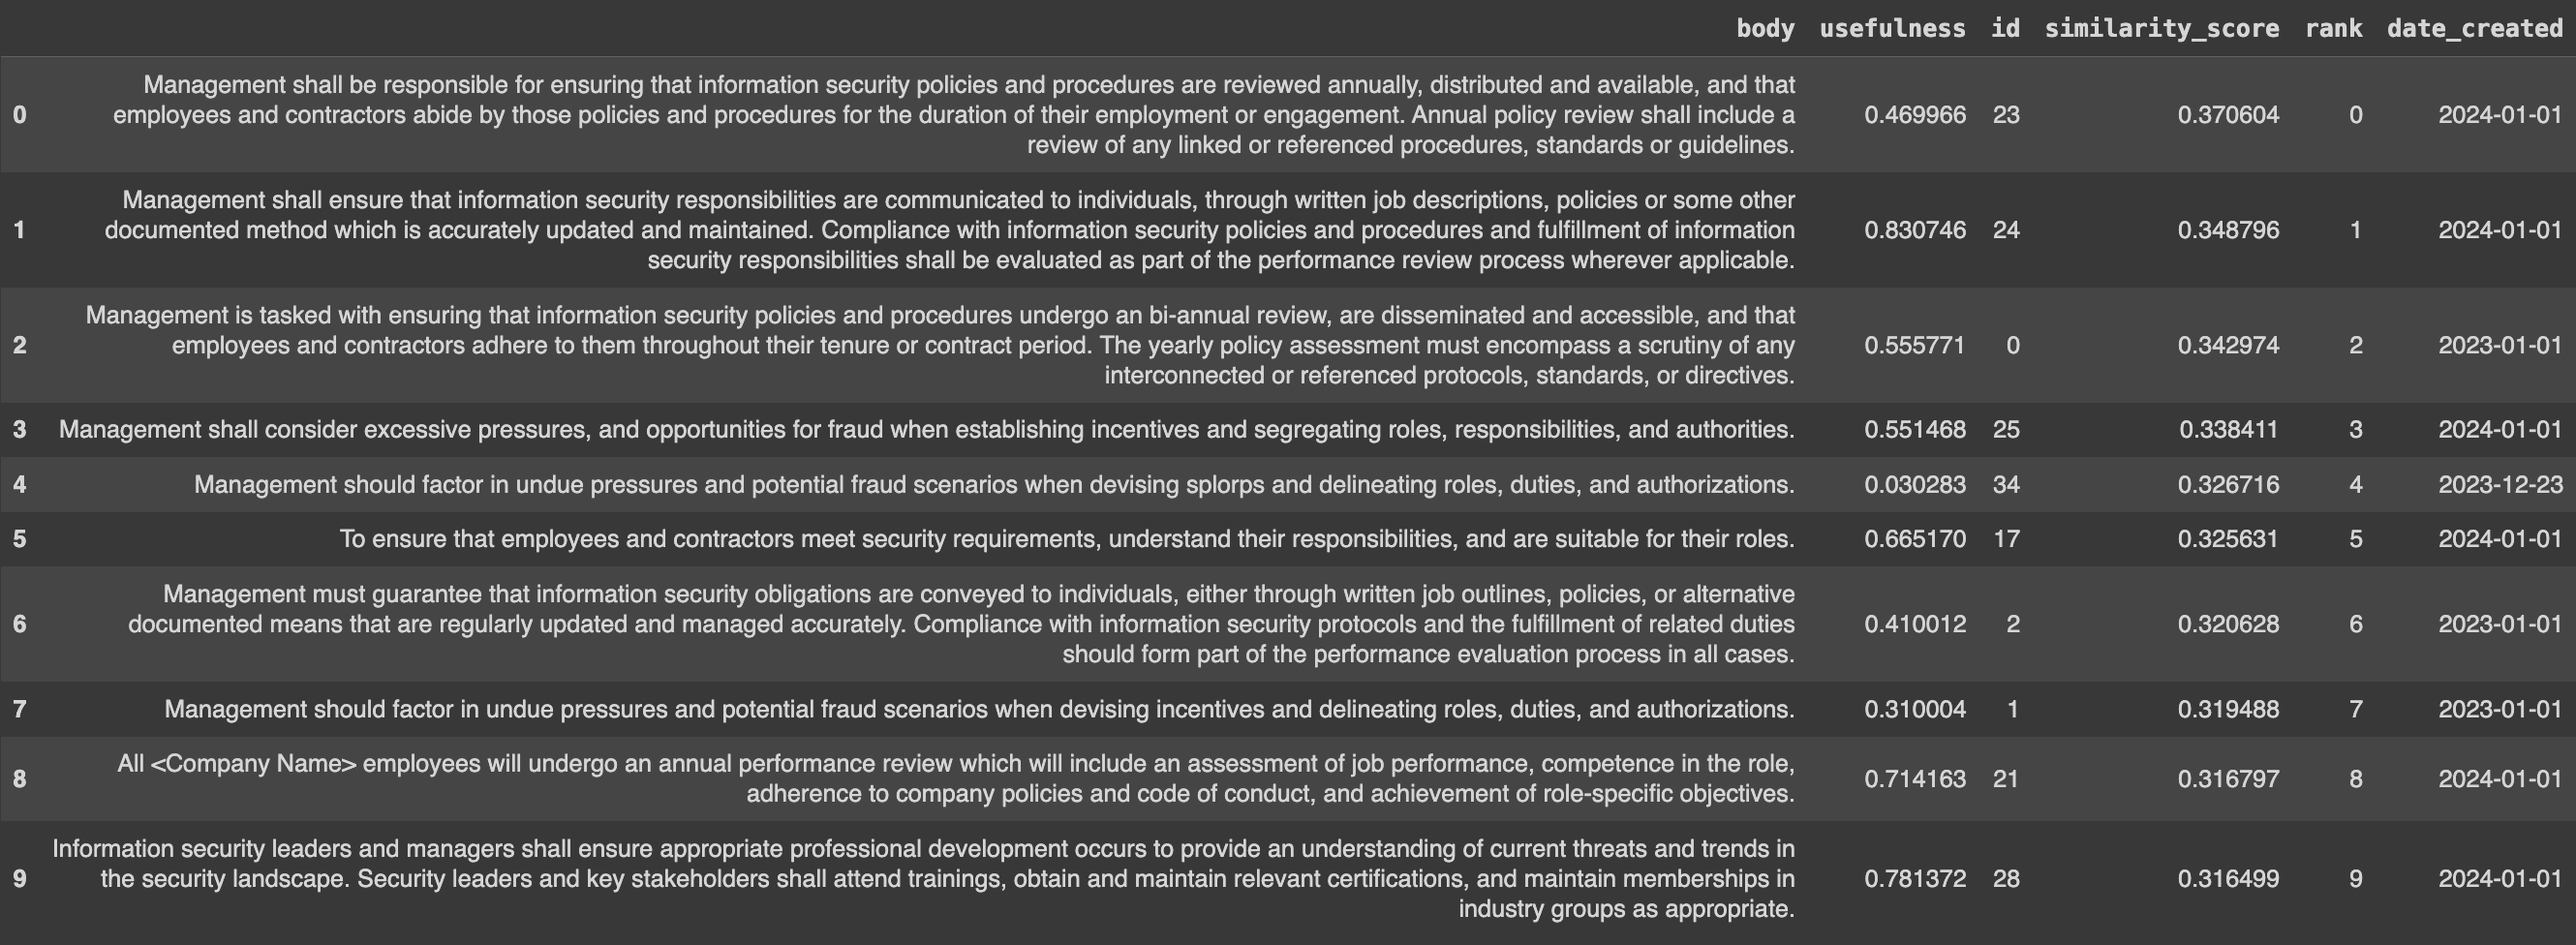
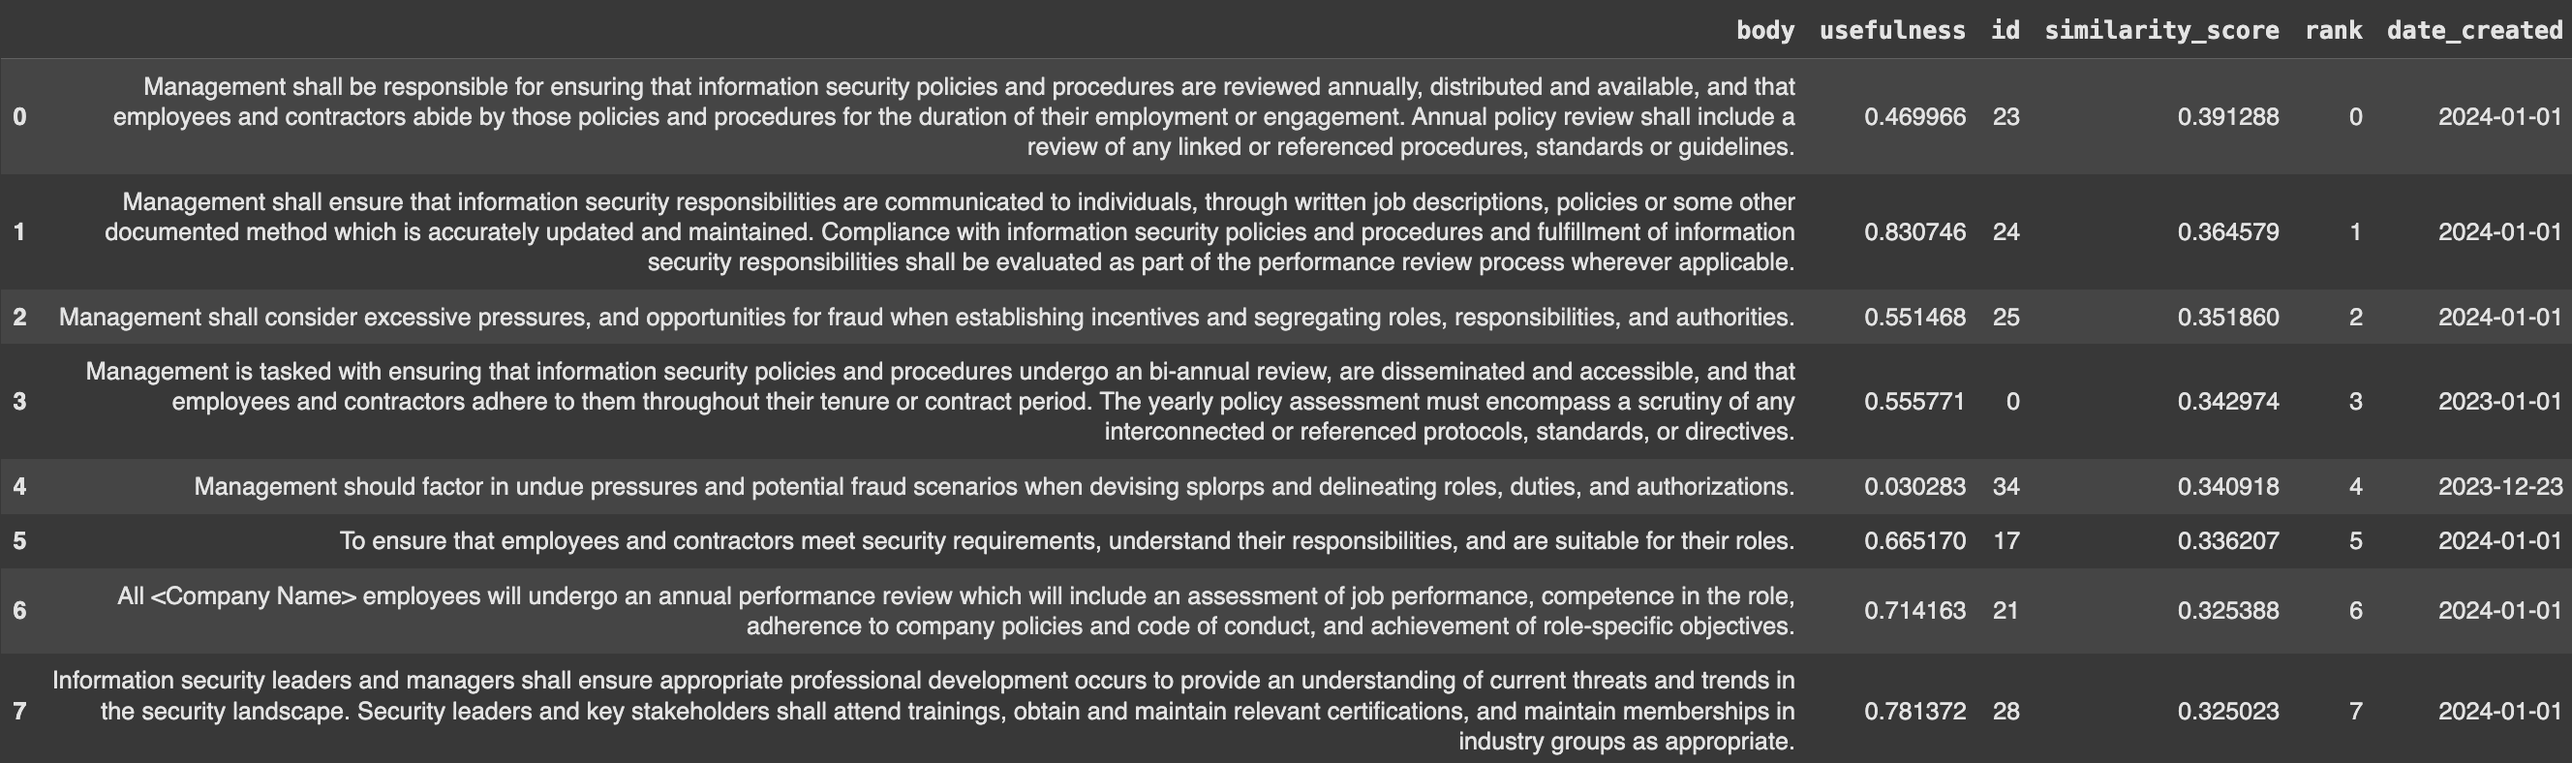
update, passing back by @morkapronczay for review

diff --git a/docs/articles/rag_hr_chatbot.md b/docs/articles/rag_hr_chatbot.md
@@ -62,8 +62,10 @@ Let’s get started setting up our solution!
 To start building your RAG-powered HR policy chatbot with Superlinked, your first step is to install the library and import the classes.
 
 ```python
-%pip install superlinked==12.16.0
+%pip install superlinked==13.1.3
 
+from datetime import datetime, timedelta
+import os
 
 from datetime import datetime, timedelta
 import os
@@ -72,47 +74,21 @@ import altair as alt
 import pandas as pd
 from torch import float16
 from transformers import AutoTokenizer, pipeline
+from superlinked import framework as sl
 
-from superlinked.framework.common.dag.context import CONTEXT_COMMON, CONTEXT_COMMON_NOW
-from superlinked.framework.common.dag.period_time import PeriodTime
-from superlinked.framework.common.nlq.open_ai import OpenAIClientConfig
-from superlinked.framework.common.parser.dataframe_parser import DataFrameParser
-from superlinked.framework.common.schema.schema import Schema
-from superlinked.framework.common.schema.schema_object import Float, String, Timestamp
-from superlinked.framework.common.schema.id_schema_object import IdField
-from superlinked.framework.common.space.config.embedding.number_embedding_config import (
-    Mode,
-)
-from superlinked.framework.common.util.interactive_util import get_altair_renderer
-from superlinked.framework.dsl.executor.in_memory.in_memory_executor import (
-    InMemoryExecutor,
-)
-from superlinked.framework.dsl.index.index import Index
-from superlinked.framework.dsl.query.param import Param
-from superlinked.framework.dsl.query.query import Query
-from superlinked.framework.dsl.query.result import Result
-from superlinked.framework.dsl.source.in_memory_source import InMemorySource
-from superlinked.framework.dsl.space.text_similarity_space import (
-    TextSimilaritySpace,
-    chunk,
-)
-from superlinked.framework.dsl.space.number_space import NumberSpace
-from superlinked.framework.dsl.space.recency_space import RecencySpace
-
-
-alt.renderers.enable(get_altair_renderer())
+alt.renderers.enable(sl.get_altair_renderer())
 alt.data_transformers.disable_max_rows()
 pd.set_option("display.max_colwidth", 1000)
 START_OF_2024_TS = int(datetime(2024, 1, 2).timestamp())
-EXECUTOR_DATA = {CONTEXT_COMMON: {CONTEXT_COMMON_NOW: START_OF_2024_TS}}
-TOP_N = 10
+EXECUTOR_DATA = {sl.CONTEXT_COMMON: {sl.CONTEXT_COMMON_NOW: START_OF_2024_TS}}
+TOP_N = 8
 ```
 
 Now, let's load our data.
 
 ```python
 text_df = pd.read_csv(
-    "https://storage.googleapis.com/superlinked-notebook-hr-knowledgebase/hr_rag_database.csv"
+    "https://storage.googleapis.com/superlinked-notebook-hr-knowledgebase/hr_rag_policies.csv"
 )
 text_df.head()
 ```
@@ -149,39 +125,39 @@ class ParagraphSchema:
    usefulness: Float 
    id: IdField
 
-
 paragraph = ParagraphSchema()
 ```
 
 Next, you use Spaces to say how you want to treat each part of the data when embedding. Which Spaces you use depends on your datatype. Each Space is optimized to embed the data so your system can return the highest possible quality of retrieval results.
 
 ```python
+%%capture
 # relevance space will encode our knowledgebase utilizing chunking to control the granularity of information
-relevance_space = TextSimilaritySpace(
-   text=chunk(paragraph.body, chunk_size=100, chunk_overlap=20),
-   model="sentence-transformers/all-mpnet-base-v2",
+relevance_space = sl.TextSimilaritySpace(
+    text=sl.chunk(paragraph.body, chunk_size=100, chunk_overlap=20),
+    model="sentence-transformers/all-mpnet-base-v2",
 )
 # recency has a periodtime to differentiate between the document created at the beginning of this year and last year
-recency_space = RecencySpace(
-   timestamp=paragraph.created_at,
-   period_time_list=[PeriodTime(timedelta(days=300))],
-   negative_filter=-0.25,
+recency_space = sl.RecencySpace(
+    timestamp=paragraph.created_at,
+    period_time_list=[sl.PeriodTime(timedelta(days=300))],
+    negative_filter=-0.25,
 )
 # usefulness is a ratio, so the relevant range is [0-1], and we prefer higher numbers
-usefulness_space = NumberSpace(
-    number=paragraph.usefulness, min_value=0.0, max_value=1.0, mode=Mode.MAXIMUM
+usefulness_space = sl.NumberSpace(
+    number=paragraph.usefulness, min_value=0.0, max_value=1.0, mode=sl.Mode.MAXIMUM
 )
 ```
 
 Once you have the data defined in Spaces, you then combine those Spaces into a single vector index to run vector search on:
 
 ```python
-paragraph_index = Index([relevance_space, recency_space, usefulness_space])
-paragraph_parser = DataFrameParser(
+paragraph_index = sl.Index([relevance_space, recency_space, usefulness_space])
+paragraph_parser = sl.DataFrameParser(
     paragraph, mapping={paragraph.id: "index", paragraph.created_at: "creation_date"}
 )
-source: InMemorySource = InMemorySource(paragraph, parser=paragraph_parser)
-executor = InMemoryExecutor(
+source: sl.InMemorySource = sl.InMemorySource(paragraph, parser=paragraph_parser)
+executor = sl.InMemoryExecutor(
     sources=[source], indices=[paragraph_index], context_data=EXECUTOR_DATA
 )
 app = executor.run()
@@ -196,24 +172,24 @@ To prepare the query to retrieve relevant information from the knowledge base, y
 # our simple query will make a search term possible, and gives us the opportunity to weight input aspects
 # relevance, recency and usefulness against each other
 knowledgebase_query = (
-    Query(
+    sl.Query(
         paragraph_index,
         weights={
-            relevance_space: Param("relevance_weight"),
-            recency_space: Param("recency_weight"),
-            usefulness_space: Param("usefulness_weight"),
+            relevance_space: sl.Param("relevance_weight"),
+            recency_space: sl.Param("recency_weight"),
+            usefulness_space: sl.Param("usefulness_weight"),
         },
     )
     .find(paragraph)
-    .similar(relevance_space, Param("search_query"))
-    .limit(Param("limit"))
+    .similar(relevance_space, sl.Param("search_query"))
+    .limit(sl.Param("limit"))
 )
 ```
 
-Now, let's perform retrieval.
+Now, let's perform **retrieval**.
 
 ```python
-def present_result(result: Result) -> pd.DataFrame:
+def present_result(result: sl.Result) -> pd.DataFrame:
     """A small helper function to present our query results"""
     df = result.to_pandas()
     df["date_created"] = [datetime.fromtimestamp(ts).date() for ts in df["created_at"]]
@@ -244,7 +220,7 @@ Here are our results:
 
 Look closely at the elements with ids 23 and 0. These documents essentially say the same thing. But the older element (id 0) prescribes a "bi-annual review" of policies and procedures. The new one (id 23), on the other hand, prescribes an annual review. Also, notice that when we upweight only "relevance", our top 10 documents include an element (id 34) with a very *low* usefulness score.
 
-Let's see what happens if we **upweight "recency"** in our query.
+Let's see what happens if we **upweight recency** in our query.
 
 ```python
 mild_recency_result = app.query(
@@ -288,7 +264,7 @@ normal_recency_usefulness_result = app.query(
     knowledgebase_query,
     relevance_weight=1,
     recency_weight=0.4,
-    usefulness_weight=0.25,
+    usefulness_weight=0.5,
     search_query=initial_query_text,
     limit=TOP_N,
 )
@@ -299,19 +275,17 @@ normal_recency_usefulness_result_df
 
 ![Results - usefulness weighted](../assets/use_cases/rag_hr_chatbot/results-usefulness.png)
 
-Weighting usefulness eradicates all irrelevant docs from our top ten results!
+Weighting usefulness eradicates all irrelevant docs from our top results!
 
-It is also important to see that the same weights produce relevant results for queries about maternity leave — a topic only discussed in the older HR document. It should not get overruled by recent but not relevant documents....
-
-Note also, importantly, that if we query "maternity leave" (below), the same weights (as above) produce relevant results for queries about maternity leave — a topic discussed only in the older HR document (2023). With the proper weighting, this older material appropriately does *not* get overruled by more recent but *irrelevant* documents.
+Now, let's query "maternity leave" — a topic discussed only in the older HR document (2023). Using the same weights we just used above, we should be able to surface relevant results that rank higher than other more recent but irrelevant results:
 
 ```python
 maternity_result = app.query(
     knowledgebase_query,
     relevance_weight=1,
     recency_weight=0.4,
-    usefulness_weight=0.25,
-    search_query="What are the companies terms for maternal leave?",
+    usefulness_weight=0.5,
+    search_query="What are the companies terms for parental leave?",
     limit=TOP_N,
 )
 
@@ -321,12 +295,17 @@ maternity_result_df
 
 ![Results 4](../assets/use_cases/rag_hr_chatbot/results4.png)
 
-...
-Weighting at query time is not the only way we can do our retrieval. We also have a new way of optimizing retrieval - by detecting user intent from the query. We discuss this Natural Language Querying method in depth in [this feature notebook](https://github.com/superlinked/superlinked/blob/main/notebook/feature/natural_language_querying.ipynb), but let's do a quick implementation here just to demo it.
+And our results do not disappoint. We see relevant maternity leave results at the top of our list, despite the fact that they are less recent.
+
+Using weights on Superlinked spaces at query time (i.e., not having to re-embed our data), our results confirm, is a relatively efficient way of optimizing retrieval, returning relevant, useful information to different kinds of HR policy queries.
+
+But query time weighting is *not the only way* to retrieve relevant, useful results. We can be even more efficient by applying **another method** that saves even the time we take to do our manual weight adjustments. Let's see how.
 
 ## NEW Natural language querying
 
-We can save time manually optimizing our query time weights by *letting the system set them* based on the detected user intent. Here's how:
+ We can save time manually optimizing our query time weights by *letting the system set them* based on user intent. Our new **Natural Language Querying method** (covered in depth in [this feature notebook](https://github.com/superlinked/superlinked/blob/main/notebook/feature/natural_language_querying.ipynb)) handles this by **detecting user intent from the query**. To demonstrate, let's very quickly implement this method on the same HR policy data above.
+
+ Here's how:
 
 ```python
 # switch to your working OpenAI API key!
@@ -339,6 +318,8 @@ nlq_knowledgebase_query = knowledgebase_query.with_natural_query(
 )
 ```
 
+Now, let's send our query and see what we get.
+
 ```python
 nlq_result = app.query(
     nlq_knowledgebase_query,
@@ -350,13 +331,11 @@ nlq_result_df = present_result(nlq_result)
 nlq_result_df
 ```
 
-Let's take a look at our results.
-
 ![natural language query results](../assets/use_cases/rag_hr_chatbot/nlqresults.png)
 
-Excellent results!...
+Our natural language querying method achieves excellent results and saves us the time of manually adjusting our weights when we query.
 
-Whichever method we use (manual query time weights or natural language query), we achieving highly relevant results. With our retrieval performing well, let’s move on to augmenting our query template so that we optimize LLM generation.
+Whichever method we use (manually adjusting query time weights or natural language querying), we achieve highly relevant results. **With our retrieval performing well**, let’s take the **final step** in implementing our HR chatbot - **augment our query template**, so that we optimize the LLM generation.
 
 ### Augmentation - formulating your query for LLM generation
 
@@ -418,7 +397,7 @@ QUESTION: What should management monitor?
 [/INST]
 ```
 
-With the query template in place, let’s prompt the LLM for a text answer.
+Now that we have our augmented query template in place, let’s prompt the LLM for a text answer.
 
 ### Generation - prompting the LLM to generate a text answer to your query
 
@@ -481,9 +460,11 @@ QUESTION: What should management monitor?
 It is important to note that management should monitor these areas in a socially unbiased and positive manner, ensuring that any monitoring is conducted in a fair and ethical manner, without any harmful or illegal content.
 ```
 
-### Evaluating the answer
+### How are our query results?
 
-Our HR chatbot's text answer is structured, contains relevant information from our context documents, and is tailored to our question. Because of our hardware setup, our chatbot generates results in a manageable time. We see that the generated text in "3." contains the correct annual term, mainly because our Superlinked-powered retrieval feeds our HR chatbot the right thing as context information.
+Our HR chatbot's text answer is structured, contains relevant information from our context documents, and is tailored to our question. Because of our hardware setup, our chatbot generates results in a manageable time. We see that the generated text in "3." (above) contains the correct annual term, mainly because our Superlinked-powered retrieval feeds our HR chatbot the right thing as context information.
+
+## Summing up...
 
 Using Superlinked’s Recency, TextSimilarity, and Usefulness spaces along with Query time weights to power retrieval enables semantic search to achieve high quality, nuanced outcomes at scale, even in cases where accurate results require prioritizing both recency and relevance. This HR chatbot example is just one example of what you can do with the Superlinked library.
 
